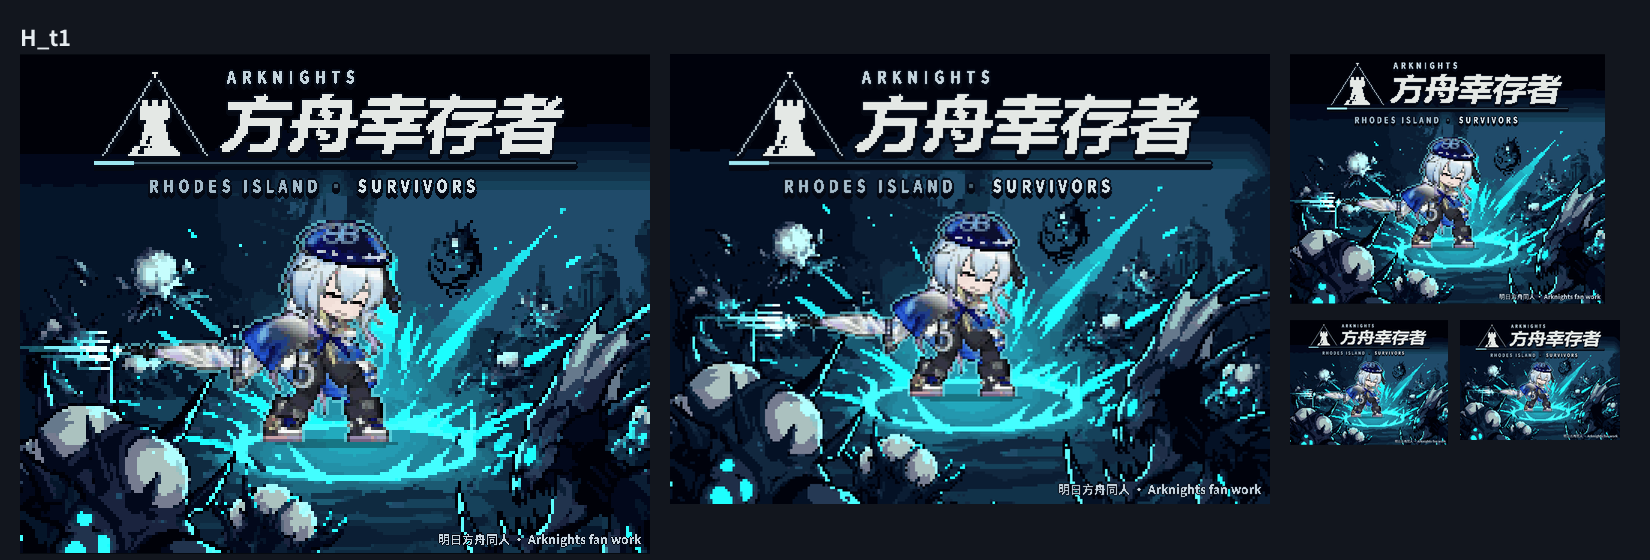
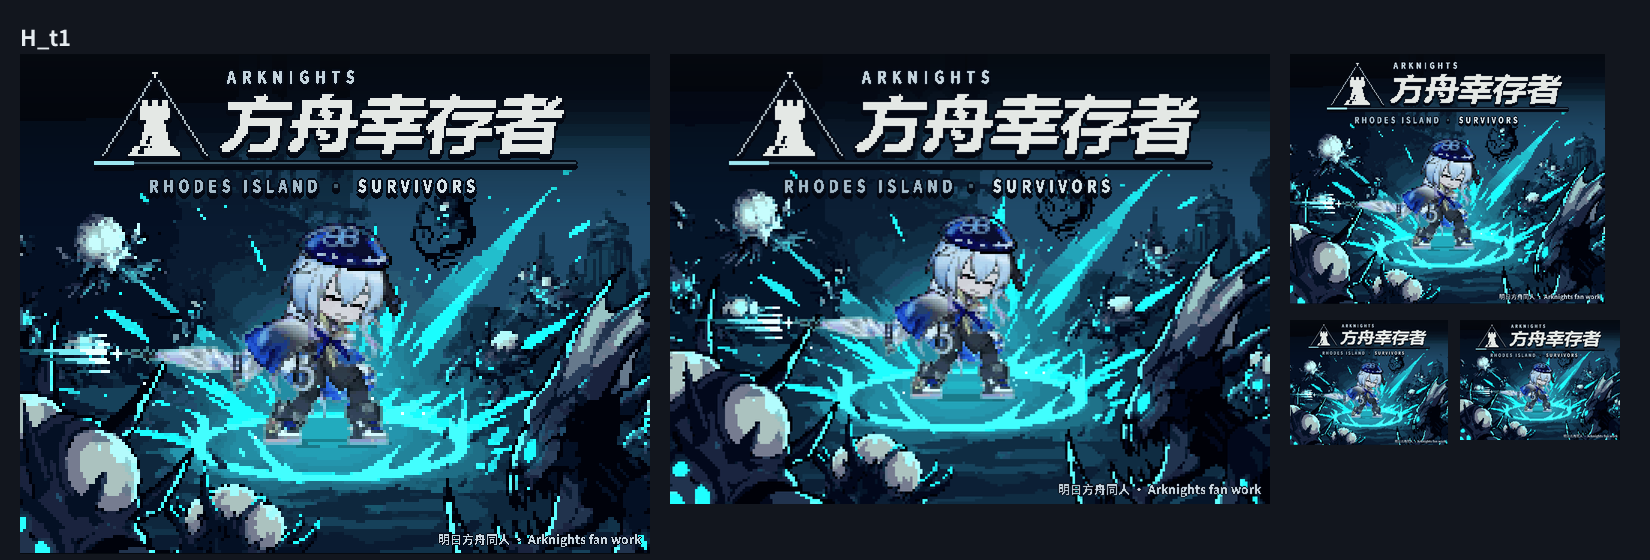
封面 H_t1：检测青光圈中心、按光圈裁切使其与水月对齐居中；去整圈描边（贴纸感），改环境色 + 下半身地面反光 + 光圈前半圈压在脚前 + 身前飞溅光点；顶部平滑压暗（用户 11-07）

diff --git a/art/promo/itch/cover_g/build_cover_h.py b/art/promo/itch/cover_g/build_cover_h.py
@@ -37,19 +37,44 @@ def sprite(key):
     return fr.crop(fr.getbbox())
 
 
-def bg_pixels(W, H, cell):
+OVER = 1.15   # 背景多做 15% 的余量，按青光圈中心再裁（11-07：光圈要和人物对齐居中）
+
+
+def bg_pixels(W, H, cell, over=OVER):
     raw = K.fill_band(Image.open(BG).convert("RGB"))
-    gw, gh = W // cell, H // cell
-    x, y, cw, ch = X.crop_box(raw, gw, gh, FLOOR[0], 0.5)   # 11-07：裁切以青光空地为中心，人物居中后仍踩在光圈中央
+    gw, gh = int(W // cell * over), int(H // cell * over)
+    x, y, cw, ch = X.crop_box(raw, gw, gh, 0.5, 0.5)
     c = raw.crop((x, y, x + cw, y + ch))
-    # 怪潮发闷：中间调对比 ×1.25（以 0.3 为中点），让深色海嗣剪影读得出
     ca = np.asarray(c, np.float32) / 255
     ca = np.clip(0.3 + (ca - 0.3) * 1.25, 0, 1)
     c = Image.fromarray((ca * 255).astype(np.uint8))
     big = c.resize((gw * 4, gh * 4), Image.LANCZOS)
     q = big.quantize(colors=K.COLORS, method=Image.Quantize.MAXCOVERAGE, dither=Image.Dither.NONE, kmeans=4)
     pal = np.array(q.getpalette()[:K.COLORS * 3], np.uint8).reshape(-1, 3)
-    return pal[K.mode_down(np.asarray(q), 4)]          # gh×gw×3，1 像素 = 1 格
+    return pal[K.mode_down(np.asarray(q), 4)]
+
+
+def ring_center(g):
+    """在格子图里找地面青光圈：亮青像素（G、B 高，R 低）在中下部的分布，取 5% / 95% 分位的中点"""
+    gh, gw = g.shape[:2]
+    r, gg, b = [g[..., i].astype(int) for i in range(3)]
+    m = (gg > 170) & (b > 170) & (r < 160)
+    m[: int(gh * 0.5)] = False
+    m[:, : int(gw * 0.15)] = False
+    m[:, int(gw * 0.85):] = False
+    ys, xs = np.nonzero(m)
+    cx = (np.percentile(xs, 5) + np.percentile(xs, 95)) / 2
+    cy = (np.percentile(ys, 5) + np.percentile(ys, 95)) / 2
+    return int(round(cx)), int(round(cy)), m
+
+
+def crop_on_ring(big, gw, gh, floor_y):
+    """把带余量的格子图裁到 gw×gh：光圈中心落在水平正中、竖直 floor_y 处"""
+    cx, cy, m = ring_center(big)
+    Hb, Wb = big.shape[:2]
+    x0 = int(np.clip(cx - gw // 2, 0, Wb - gw))
+    y0 = int(np.clip(cy - int(gh * floor_y), 0, Hb - gh))
+    return big[y0:y0 + gh, x0:x0 + gw], m[y0:y0 + gh, x0:x0 + gw], (cx - x0, cy - y0)
 
 
 def shift_down(grid, n):
@@ -58,30 +83,49 @@ def shift_down(grid, n):
     return np.concatenate([top, grid[:-n]], 0)
 
 
-def compose_grid(grid, spr, n_shift=0):
-    """在格子分辨率上贴水月：脚踩护盾地面中心；外圈 1 格青色描边光 + 脚下一小块暗影"""
+def compose_grid(grid, spr, ringmask, center, n_shift=0):
+    """贴水月（11-07 改：不再整圈描边〔像贴纸〕）：
+    - 环境色：整体乘一点深海青，越往脚越受地面青光照亮；
+    - 反光：只在下半身、朝外的边缘加青色反光（光从地面光圈来）；
+    - 前后关系：光圈前半圈（脚下以下的亮青像素）重新画在脚前面；身前撒几颗飞溅光点。"""
     g = grid.copy()
     gh, gw = g.shape[:2]
-    a = np.asarray(spr)
+    a = np.asarray(spr).astype(np.float32)
     sh, sw = a.shape[:2]
     m = a[..., 3] > 127
-    # 11-07 用户「人物居中一点」：以头部（精灵最上面 30% 的不透明像素）水平中心对准画面中线，伞伸出去多长都不影响
     top = m[: max(1, int(sh * 0.3))]
     hx = int(np.nonzero(top.any(0))[0].mean())
-    fx, fy = gw // 2, int(gh * FLOOR[1]) + n_shift
-    x0, y0 = fx - hx, fy - sh
-    # 描边光：alpha 外扩 1 格的一圈，按 60% 混青色
+    fx, fy = center[0], center[1] + n_shift
+    x0, y0 = fx - hx, fy - sh + 1
+    # 环境色 + 地面上光
+    yy = np.linspace(0, 1, sh)[:, None]
+    amb = np.array([0.86, 0.94, 1.0])
+    up = np.clip((yy - 0.55) / 0.45, 0, 1)[..., None] * np.array([0.10, 0.30, 0.34]) * 255 * 0.35
+    rgb = np.clip(a[..., :3] * amb + up, 0, 255)
+    # 下半身朝外边缘的反光
     p = np.pad(m, 1)
-    ring = (p[:-2, 1:-1] | p[2:, 1:-1] | p[1:-1, :-2] | p[1:-1, 2:]) & ~m
-    # 脚下暗影：一条 2 格高的椭圆
-    yy, xx = np.mgrid[0:gh, 0:gw]
-    shadow = ((xx - fx) / (sw * 0.22)) ** 2 + ((yy - fy) / 1.6) ** 2 < 1
-    g[shadow] = (g[shadow] * 0.7).astype(np.uint8)   # 11-07：原来的硬黑条太突兀，改浅、窄
+    edge = m & ~(p[:-2, 1:-1] & p[2:, 1:-1] & p[1:-1, :-2] & p[1:-1, 2:])
+    lower = (np.arange(sh)[:, None] > sh * 0.45)
+    rim = edge & lower
+    rgb[rim] = rgb[rim] * 0.45 + np.array([120, 235, 245]) * 0.55
+    # 脚下暗影（浅、窄）
+    gy, gx = np.mgrid[0:gh, 0:gw]
+    shadow = ((gx - fx) / (sw * 0.2)) ** 2 + ((gy - fy) / 1.4) ** 2 < 1
+    g[shadow] = (g[shadow] * 0.75).astype(np.uint8)
     reg = g[y0:y0 + sh, x0:x0 + sw]
-    rr = ring[:reg.shape[0], :reg.shape[1]]
-    reg[rr] = (reg[rr] * 0.4 + CYAN * 0.6).astype(np.uint8)
     mm = m[:reg.shape[0], :reg.shape[1]]
-    reg[mm] = a[..., :3][:reg.shape[0], :reg.shape[1]][mm]
+    reg[mm] = rgb[:reg.shape[0], :reg.shape[1]][mm].astype(np.uint8)
+    # 光圈前半圈画回脚前（脚底所在行以下 1 格起）
+    front = ringmask.copy()
+    front[: fy] = False
+    g[front] = grid[front]
+    # 身前飞溅光点
+    rng = np.random.default_rng(11)
+    for _ in range(14):
+        x = int(fx + rng.normal(0, sw * 0.35))
+        y = int(fy - rng.uniform(0, sh * 0.45))
+        if 0 <= x < gw and 0 <= y < gh:
+            g[y, x] = (235, 255, 255) if rng.random() < 0.4 else (120, 235, 245)
     if THRUST:
         thrust_lines(g, m, x0, y0)
     return g
@@ -120,8 +164,15 @@ def thrust_lines(g, m, x0, y0):
 
 def build(key, kind):
     (W, H), cell, up, logo_y = SIZES[kind]
+    gw, gh = W // cell, H // cell
+    big = bg_pixels(W, H, cell)
+    grid, rmask, center = crop_on_ring(big, gw, gh, FLOOR[1])
     n = SHIFT[kind]
-    grid = compose_grid(shift_down(bg_pixels(W, H, cell), n), sprite(key), n)
+    grid, rmask = shift_down(grid, n), shift_down(rmask, n)
+    grid = compose_grid(grid, sprite(key), rmask, center, n)
+    # 顶部平滑压暗到统一深色（盖掉生图黑带补过渡留下的台阶，也给标题干净底）
+    t = np.clip(1 - np.arange(gh) / (gh * 0.34), 0, 1)[:, None, None] ** 1.3 * 0.9
+    grid = (grid * (1 - t) + np.array([6, 10, 16]) * t).astype(np.uint8)
     img = Image.fromarray(grid).resize((grid.shape[1] * cell, grid.shape[0] * cell), Image.NEAREST)
     canvas = Image.new("RGB", (W, H), (6, 10, 16))
     canvas.paste(img, ((W - img.width) // 2, (H - img.height) // 2))
